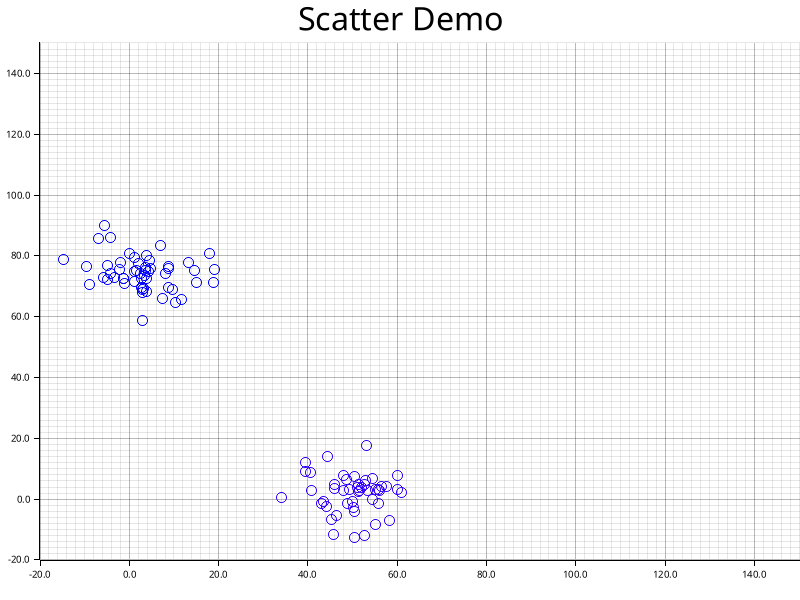
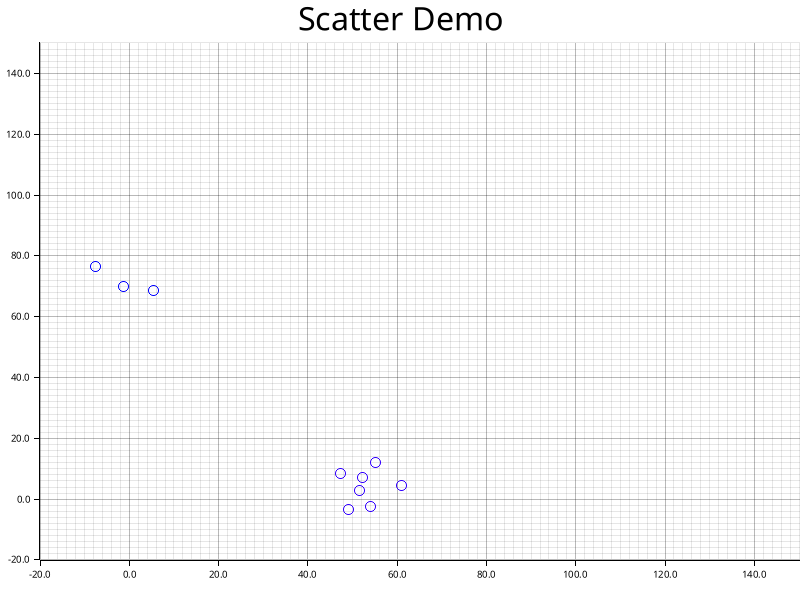
project needs to be left on stand by - discovering semi-axis is proving to be difficult

Changed region(s): [[0.375, 0.75, 0.5, 0.9], [0.0938, 0.42, 0.2812, 0.51]]

diff --git a/src/core/model/mod.rs b/src/core/model/mod.rs
@@ -1,5 +1,6 @@
 use std::thread;
 use std::thread::JoinHandle;
+use std::f64::consts::PI;
 
 use super::NumericDataset;
 use super::TwoDimVec;
@@ -43,27 +44,21 @@ impl EllipsoidModel {
         // each tuple contains
         // -- cluster body
         // -- cluster center
-        // -- (minima_id, minima, maxima_id, maxima) per axis
+        // -- Vec with (minima_id, minima, maxima_id, maxima) per axis
         let metadata = arrange_dataset(self.n_classes, dataset);
 
-        println!("{:?}", metadata);
+        let mut class_data: &(TwoDimVec, Vec<f64>, Vec<(Vec<f64>, Vec<f64>)>);
+        for c in 0..self.n_classes {
+            class_data = &metadata[c];
+            find_semi_axis(&class_data.1, &class_data.2)
+        }
     }
-
-    /*
-    pub fn predict() {
-        
-    }
-    
-    pub fn evaluate() {
-        
-    }
-    */
 }
 
 
-fn arrange_dataset(n_classes: usize, dataset: NumericDataset) -> Vec<(TwoDimVec, Vec<f64>, Vec<(usize, f64, usize, f64)>)> {
+fn arrange_dataset(n_classes: usize, dataset: NumericDataset) -> Vec<(TwoDimVec, Vec<f64>, Vec<(Vec<f64>, Vec<f64>)>)> {
     // gather all classes (TwoDimVec) with minima and maxima (tuple)
-    let mut thread_classes: Vec<JoinHandle<(TwoDimVec, Vec<f64>, Vec<(usize, f64, usize, f64)>)>> = Vec::with_capacity(
+    let mut thread_classes: Vec<JoinHandle<(TwoDimVec, Vec<f64>, Vec<(Vec<f64>, Vec<f64>)>)>> = Vec::with_capacity(
         n_classes
     );
 
@@ -72,22 +67,22 @@ fn arrange_dataset(n_classes: usize, dataset: NumericDataset) -> Vec<(TwoDimVec,
         current_dataset = dataset.clone();
         // each thread will search for each class
         thread_classes.push(thread::spawn(
-            move || -> (TwoDimVec, Vec<f64>, Vec<(usize, f64, usize, f64)>) {
+            move || -> (TwoDimVec, Vec<f64>, Vec<(Vec<f64>, Vec<f64>)>) {
                 let class_values = current_dataset.select_class(&(i as f64));
 
-                let mut thread_min_max: Vec<JoinHandle<(usize, f64, usize, f64)>> = Vec::with_capacity(
+                let mut thread_min_max: Vec<JoinHandle<(Vec<f64>, Vec<f64>)>> = Vec::with_capacity(
                     dataset.body.shape[1]
                 );
                 for j in 0..dataset.body.shape[1] {
                     let current_class_values = class_values.clone();
                     thread_min_max.push(thread::spawn(
-                        move || -> (usize, f64, usize, f64) {
+                        move || -> (Vec<f64>, Vec<f64>) {
                             current_class_values.min_max_axis(&j)
                         }
                     ));
                 }
 
-                let gathered_min_max: Vec<(usize, f64, usize, f64)> = thread_min_max.into_iter().map(|x| {
+                let gathered_min_max: Vec<(Vec<f64>, Vec<f64>)> = thread_min_max.into_iter().map(|x| {
                     x.join().unwrap()
                 }).collect();
 
@@ -99,13 +94,53 @@ fn arrange_dataset(n_classes: usize, dataset: NumericDataset) -> Vec<(TwoDimVec,
     }
 
     // gathering the search results from the threads
-    let gathered_classes: Vec<(TwoDimVec, Vec<f64>, Vec<(usize, f64, usize, f64)>)> = thread_classes.into_iter().map(|x| {
+    let gathered_classes: Vec<(TwoDimVec, Vec<f64>, Vec<(Vec<f64>, Vec<f64>)>)> = thread_classes.into_iter().map(|x| {
         x.join().unwrap()
     }).collect();
 
     gathered_classes
 }
 
+fn find_semi_axis(center: &Vec<f64>, limits: &Vec<(Vec<f64>, Vec<f64>)>) {
+    let mut raw_semi_axis: Vec<Vec<f64>> = Vec::with_capacity(limits.len());
+    for axis in 0..limits.len() {
+        let min_diff = super::arithmetic::sub(
+            center, &limits[axis].0);
+        let min_length = super::arithmetic::norm(min_diff);
+
+        let max_diff = super::arithmetic::sub(
+            center, &limits[axis].1);
+        let max_length = super::arithmetic::norm(max_diff);
+
+        if min_length > max_length {
+            raw_semi_axis.push(min_diff.clone());
+        } else {
+            raw_semi_axis.push(max_diff.clone());
+        }
+    }
+
+    // adjusting semi axis
+    let mut current_angle: f64;
+    let delta: f64 = PI/100;
+    for axis in 1..raw_semi_axis.len() {
+        // manage from axis 0
+        // check if current axis relative angle is lower or higher than pi/2
+        // add or sub until tolerance for pi/2 is reached
+        // consider dimension multiplicity in axis 0
+        // this axis needs to be weighted less since it is going to change d-1 times
+        current_angle = super::arithmetic::angle(
+            raw_semi_axis[0].clone(),
+            raw_semi_axis[axis].clone()
+        );
+
+        println!("{}", current_angle);
+
+        if current_angle > PI/2 {
+
+        }
+
+    }
+}
 
 fn find_center(cluster: &TwoDimVec) -> Vec<f64> {
     let mut center: Vec<f64> = vec![0.0; cluster.shape[1]];

diff --git a/src/core/mod.rs b/src/core/mod.rs
@@ -75,7 +75,7 @@ impl TwoDimVec {
         self.body.append(row);
     }
 
-    pub fn min_max_axis(&self, axis: &usize) -> (usize, f64, usize, f64) {
+    pub fn min_max_axis(&self, axis: &usize) -> (Vec<f64>, Vec<f64>) {
         // in the future you can try to use concurrency
         let mut current: f64;
         let mut max_id: usize = 0;
@@ -93,7 +93,10 @@ impl TwoDimVec {
             }
         }
 
-        (min_id, min, max_id, max)
+        let point_min = self.row(&min_id);
+        let point_max = self.row(&max_id);
+
+        (point_min, point_max)
     }
 }
 
@@ -229,6 +232,97 @@ fn add_random_points(dataset: &mut NumericDataset,
 
         dataset.add_row(&mut added_row, &class_val);
     }
+}
+
+mod arithmetic {
+    use crate::core::TwoDimVec;
+
+    pub fn norm(v: Vec<f64>) -> f64 {
+        // compute squared sum
+        let mut result = v.into_iter().reduce(|acc, e| {
+            acc.powf(2.0) + e.powf(2.0)
+        }).unwrap();
+
+        result.sqrt()
+    }
+
+
+    pub fn sum(v: &Vec<f64>, u: &Vec<f64>) -> Vec<f64> {
+        // this can have better error handling with Option<>
+        // or even with Result<>
+        // if vector are not the same length it return empty vector
+        if v.len() == u.len() {
+            let mut count = 0;
+            let result = v.into_iter().map(|x| {
+                count += 1;
+                x + u[count-1]
+            }).collect();
+
+            result
+        } else {
+            Vec::new()
+        }
+    }
+
+    pub fn sub(v: &Vec<f64>, u: &Vec<f64>) -> Vec<f64> {
+        // this can have better error handling with Option<>
+        // or even with Result<>
+        // if vector are not the same length it return empty vector
+        if v.len() == u.len() {
+            let mut count = 0;
+            let result = v.into_iter().map(|x| {
+                count += 1;
+                x - u[count-1]
+            }).collect();
+
+            result
+        } else {
+            Vec::new()
+        }
+    }
+
+    pub fn dot(v: Vec<f64>, u: &Vec<f64>) -> f64{
+        // needs to be given a clone of v
+        // he will be cleaned at the end
+        let mut count = 0;
+        let mut result = v.into_iter().reduce(|acc, e| {
+            count += 1;
+            acc + e * u[count-1]
+        }).unwrap();
+
+        result
+    }
+
+    pub fn angle(v: Vec<f64>, u: Vec<f64>) -> f64 {
+        let result = dot(v.clone(), &u)/(norm(v.clone())*norm(u));
+
+        result.acos()
+    }
+
+    pub fn matrix_prod(a: &TwoDimVec, b: &TwoDimVec) -> TwoDimVec {
+        let mut result = TwoDimVec::new(a.shape);
+        let mut row: Vec<f64> = Vec::with_capacity(a.shape[1]);
+        let mut val_to_add: f64 = 0.0;
+        // a simple manner could be using assert_eq
+        if a.shape == b.shape {
+            for i in 0..a.shape[0] {
+                for j_aux in 0..a.shape[1] {
+                    for j in 0..a.shape[1] {
+                        val_to_add += a.elm(&i, &j) * b.elm(&j, &j_aux);
+                    }
+                    // calculated 1 element
+                    row.push(val_to_add);
+                }
+
+                result.add_row(&mut row);
+            }
+
+            result
+        } else {
+            result
+        }
+    }
+
 }
 
 mod error_handling {

diff --git a/src/main.rs b/src/main.rs
@@ -6,7 +6,7 @@ use crate::core::model::EllipsoidModel;
 use std::env;
 
 const DIM: usize = 2;
-const SHAPE: [usize; 2] = [100, DIM];
+const SHAPE: [usize; 2] = [10, DIM];
 const CLASSES: usize = 2;
 const SEED: u128 = 111;
 
